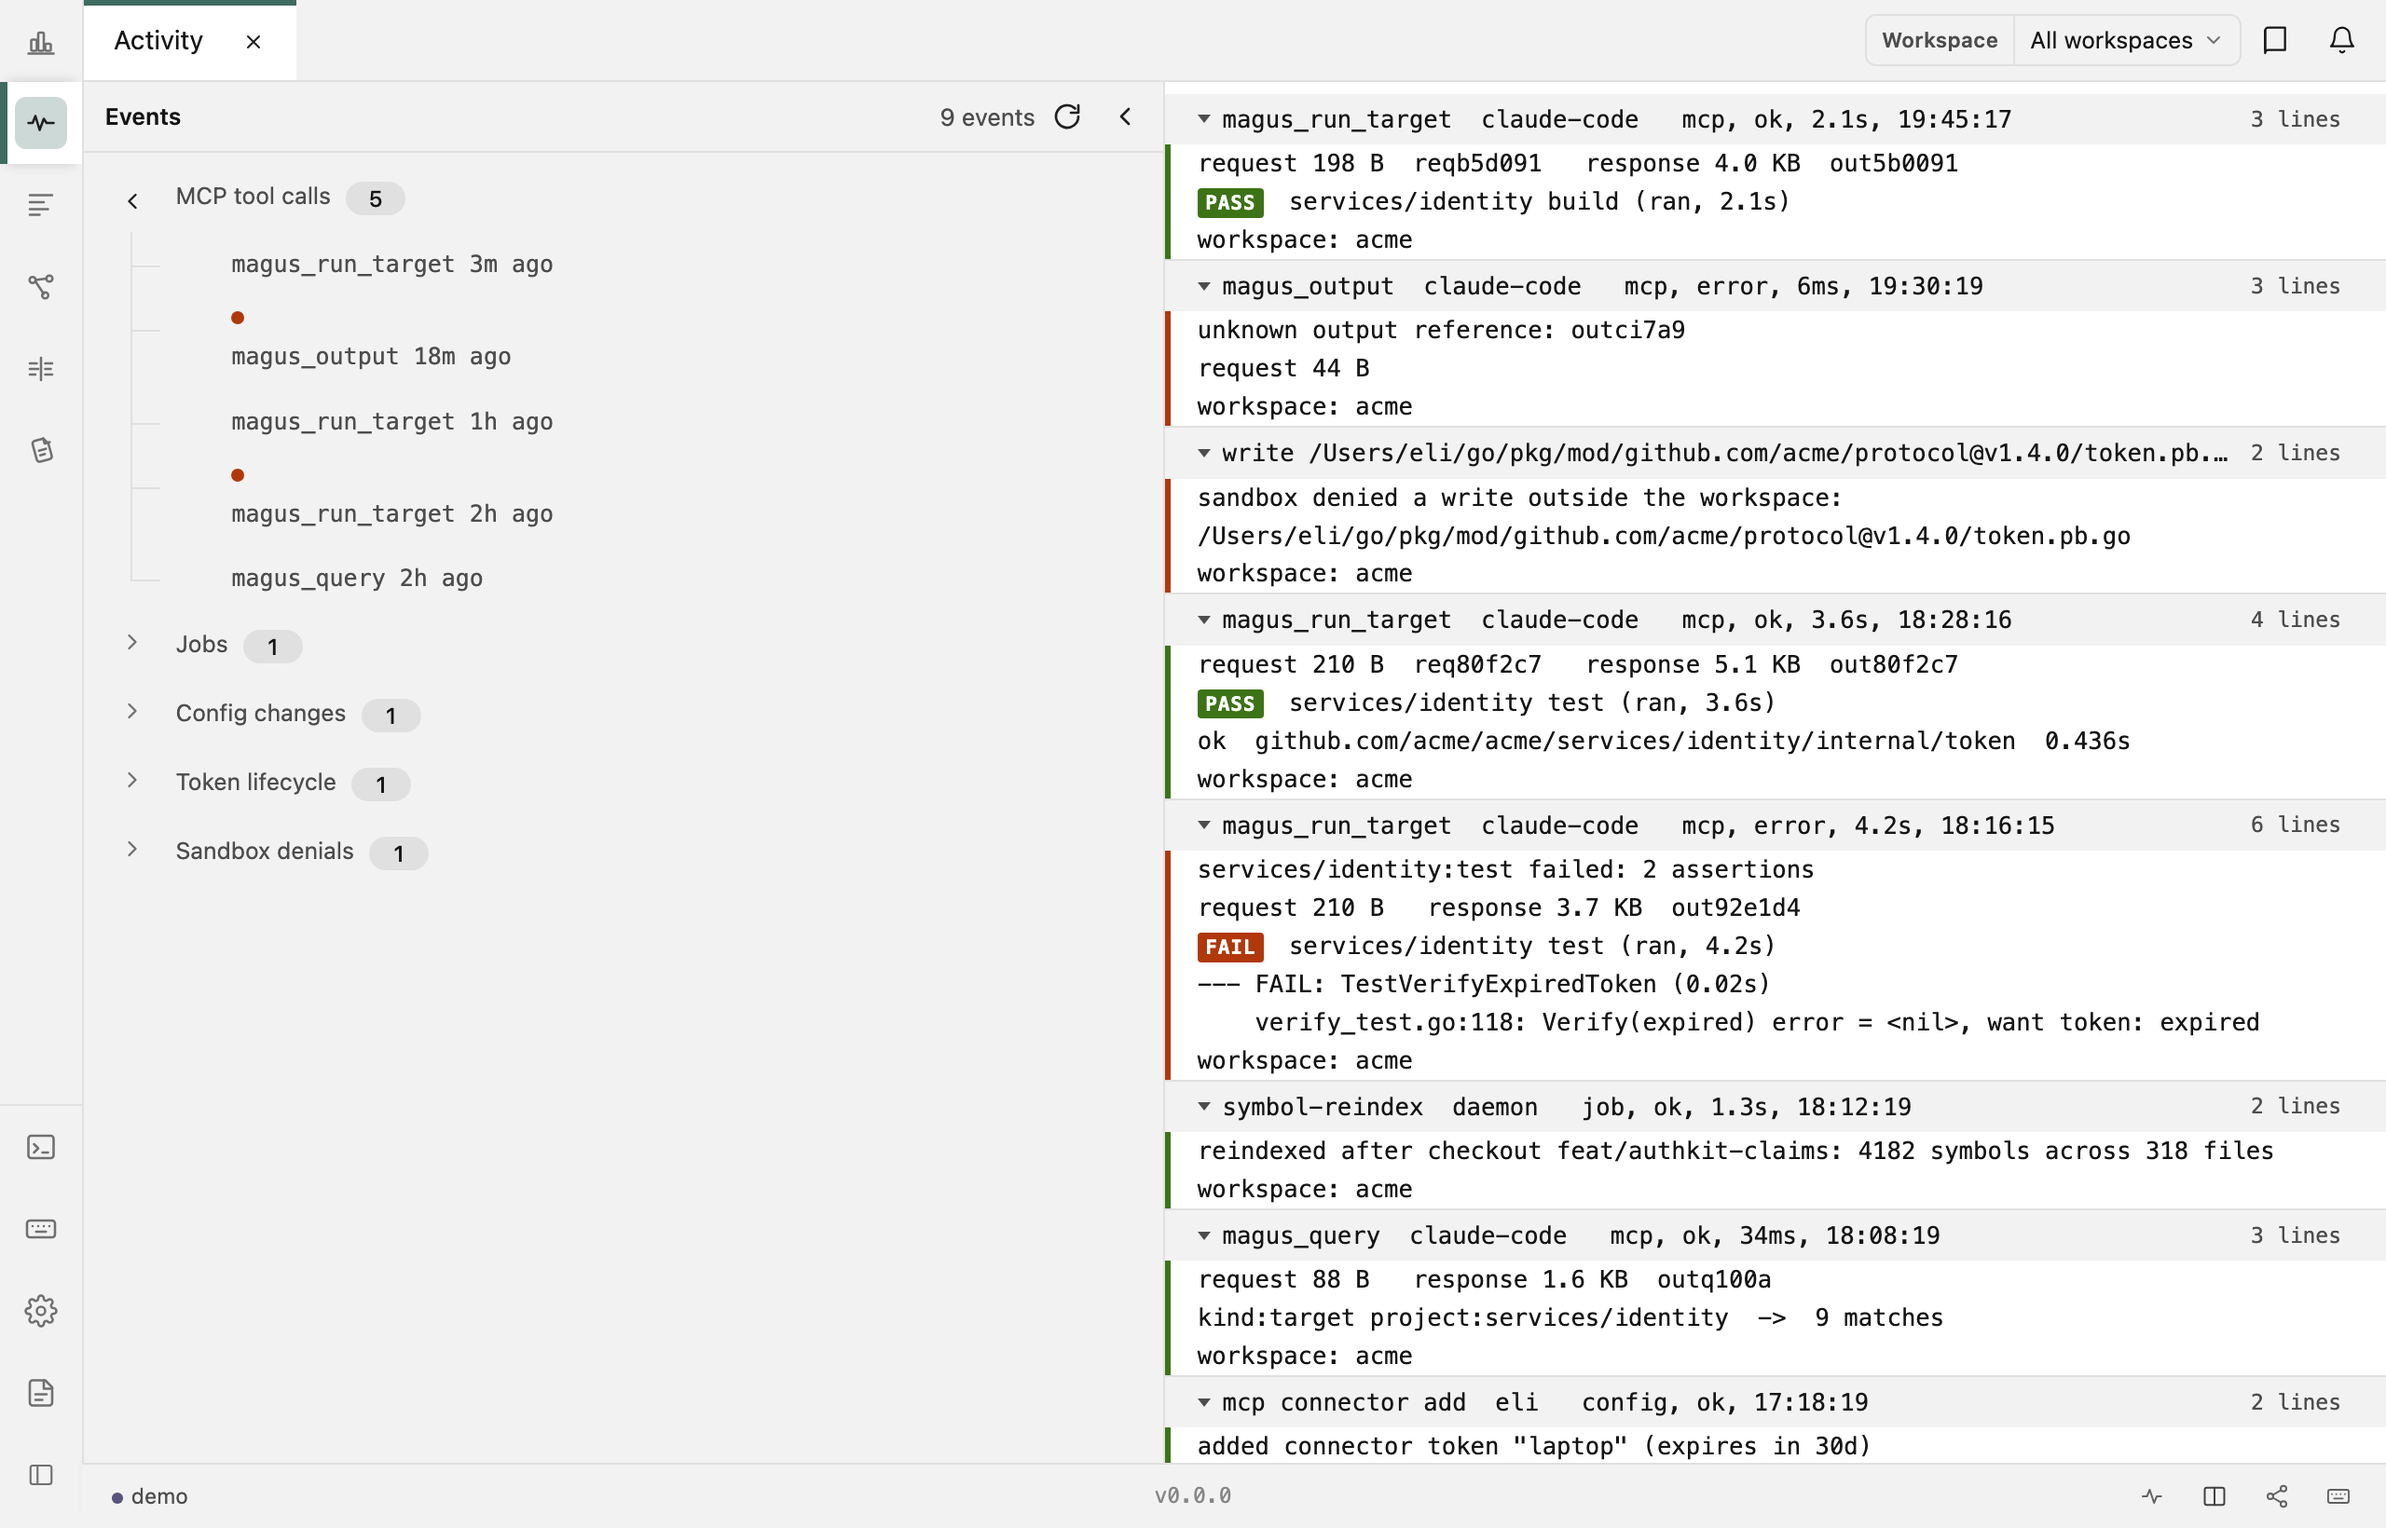
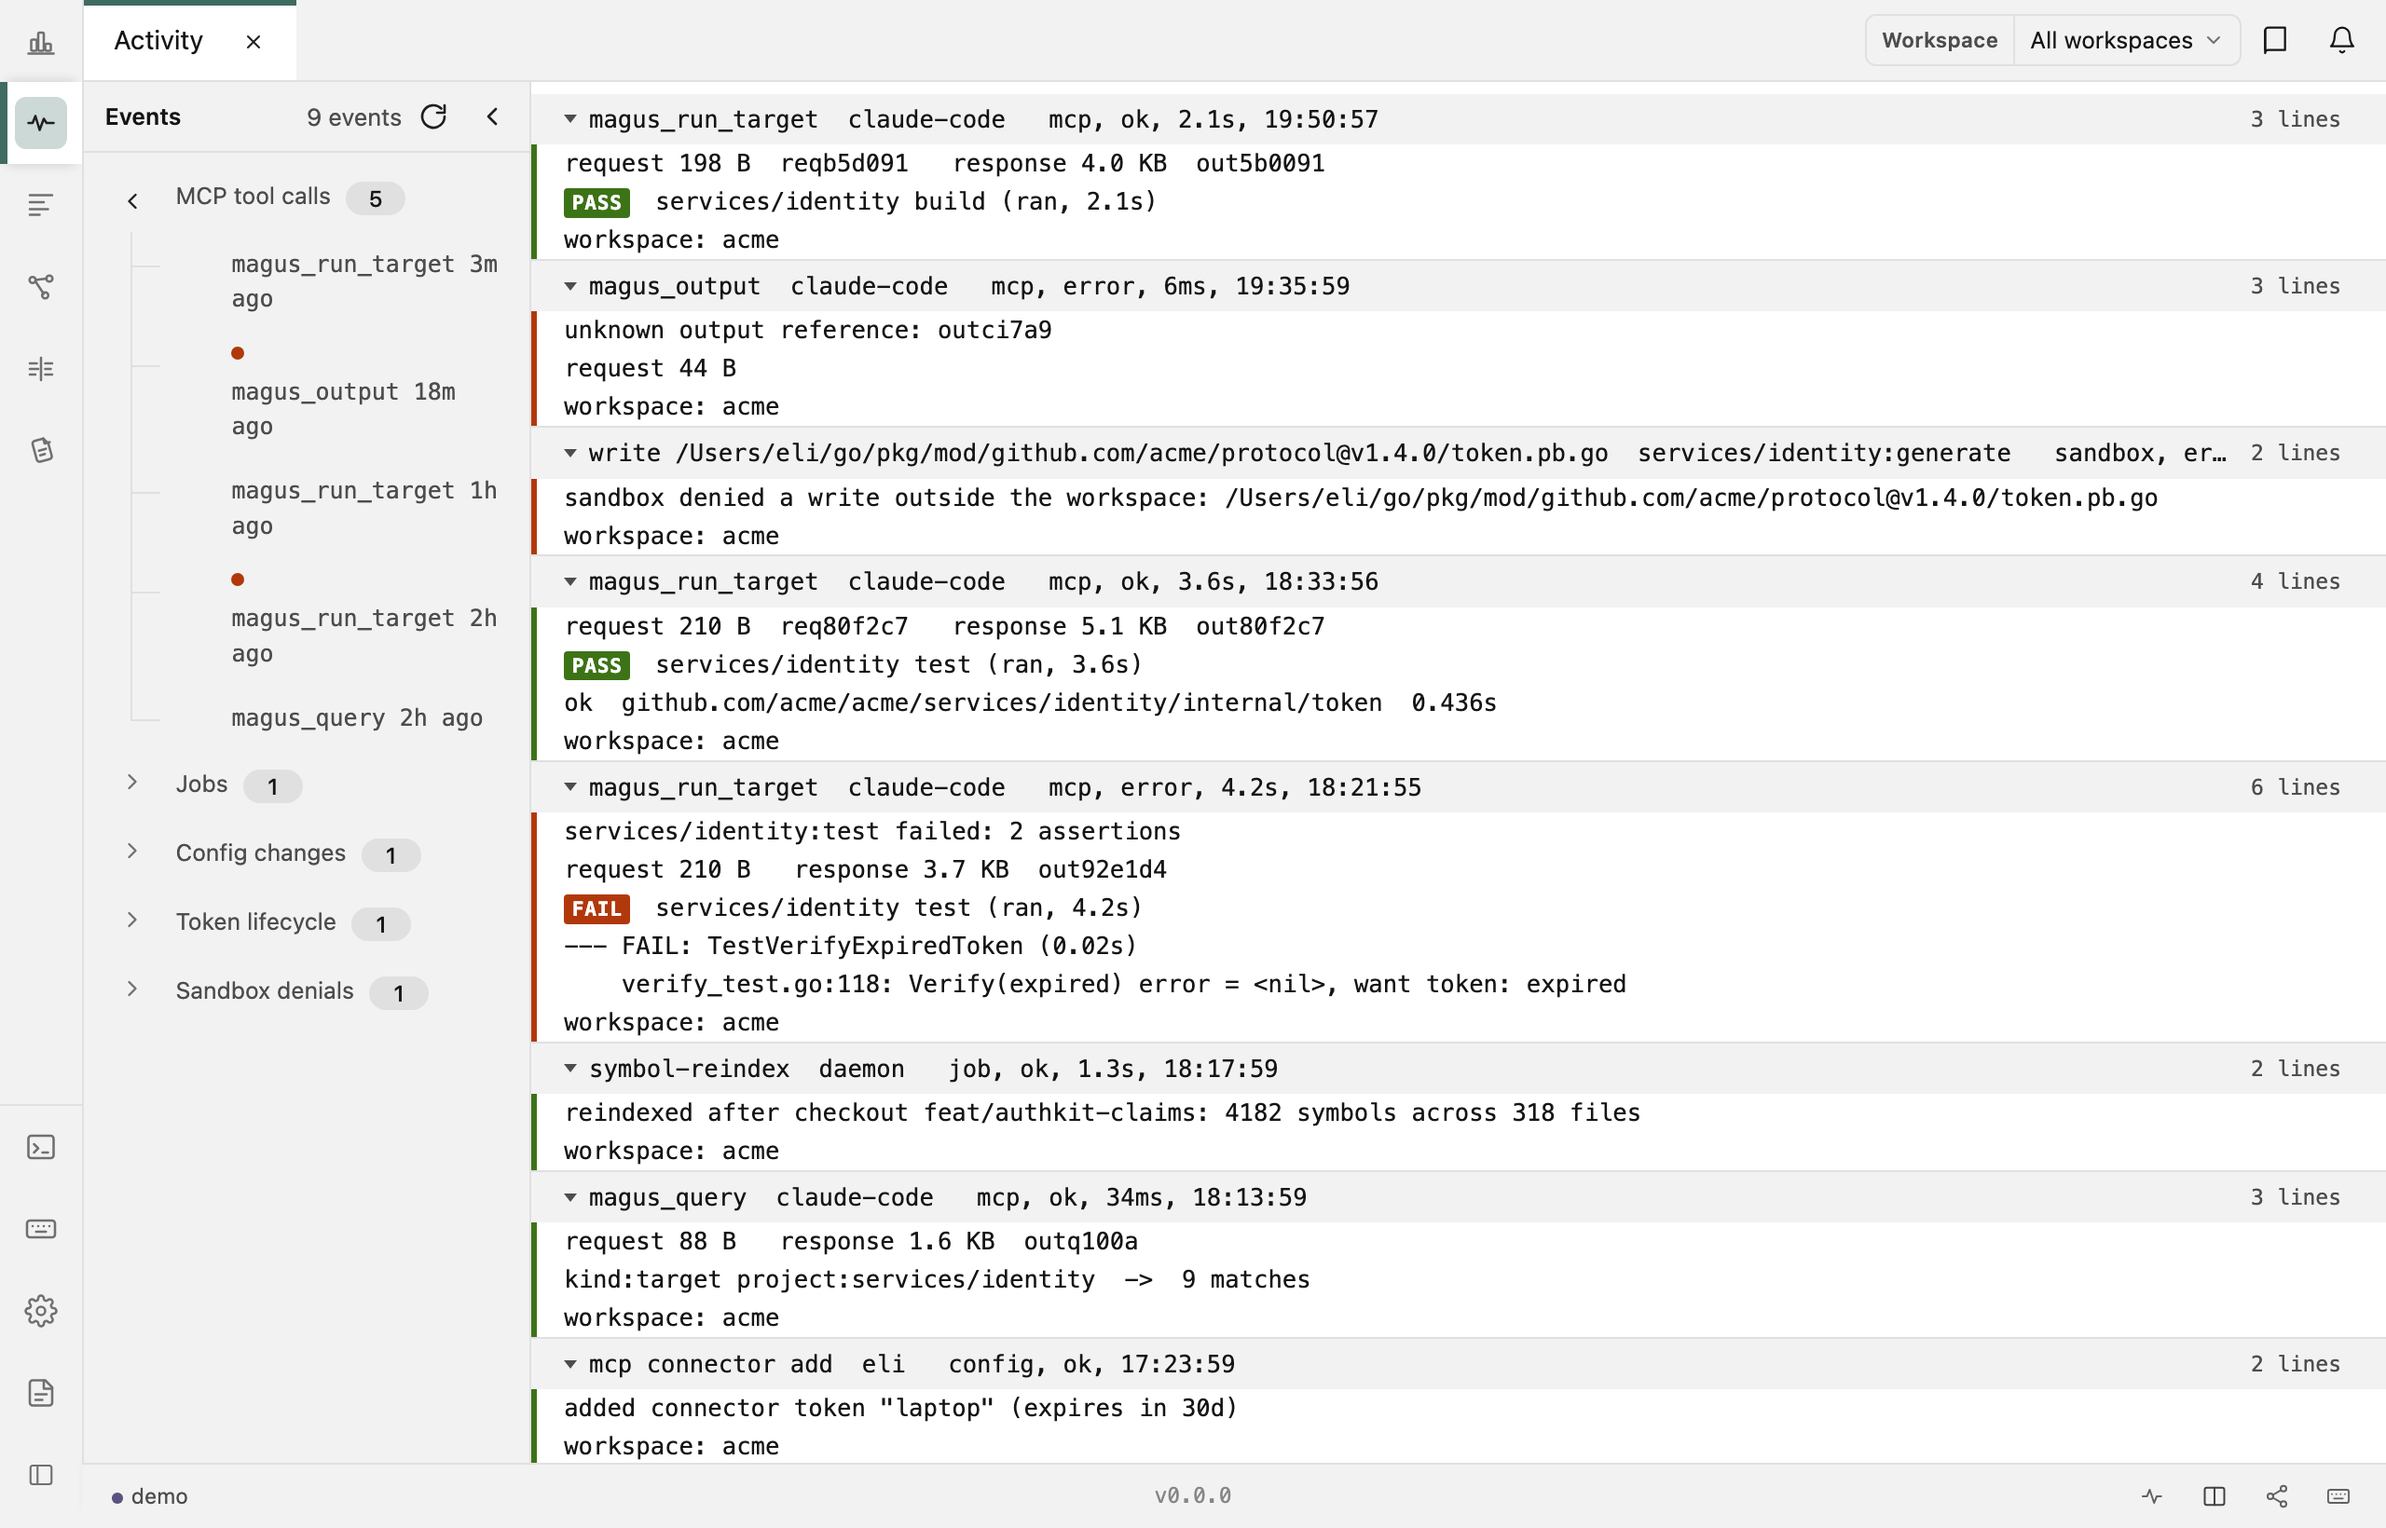
stop the event index widening past its clamp; reshoot activity

diff --git a/console/src/console/logs/logs.css b/console/src/console/logs/logs.css
@@ -380,8 +380,15 @@ main .console-log-help > summary:not([role]), main .console-log-help[open] > sum
    would get squeezed hardest exactly when it is already tight. Below 48rem the tree stops
    being in flow at all (the overlay rule further down), so this only governs the docked
    case. */
+/* min-width: 0 is what makes the basis above binding. A flex item defaults to min-width:
+   auto, which floors it at its MIN-CONTENT width, and a long leaf label then overrides the
+   clamp entirely - the activity index's "magus_run_target 3m ago" leaves pushed this aside
+   to 580px inside a 1395px split. The run browser's leaves are short enough to stay under
+   the cap, so the same rule looked correct in one surface while it was broken in the
+   other. The tree scrolls, so the floor buys nothing. */
 .console-log-runs {
-  flex: 0 0 clamp(10rem, 24%, 15rem); display: flex; flex-direction: column; min-height: 0;
+  flex: 0 0 clamp(10rem, 24%, 15rem); display: flex; flex-direction: column;
+  min-height: 0; min-width: 0;
   border-right: 1px solid var(--pf-t--global--border--color--default);
   background: var(--pf-t--global--background--color--secondary--default);
 }
